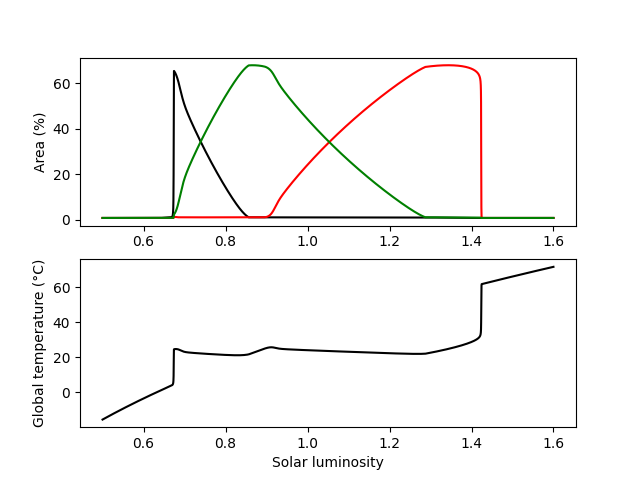
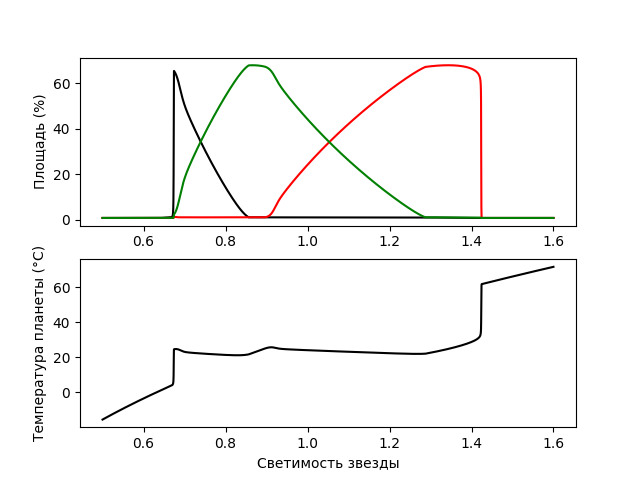
й34нн4н3

Changed region(s): [[0.0312, 0.5312, 0.0938, 0.9062], [0.4062, 0.9375, 0.625, 1.0], [0.0312, 0.2188, 0.0938, 0.375]]

diff --git a/DW_4.py b/DW_4.py
@@ -6,8 +6,8 @@ temp_max = 313.15
 temp_opt = 295.65
 
 albedo_barren = 0.5
-albedo_white = 0.8
-albedo_black = 0.2
+albedo_white = 0.75
+albedo_black = 0.25
 albedo_3 = 0.4
 albedo_4 = 0.6
 
@@ -22,7 +22,7 @@ insul = 0.12
 
 if __name__ == '__main__':
 
-    luminosity = np.arange(0.5, 1.7, 0.0001)
+    luminosity = np.arange(0.5, 1.6, 0.0001)
     area_black_a = np.zeros_like(luminosity)
     area_white_a = np.zeros_like(luminosity)
     area_3_a = np.zeros_like(luminosity)
@@ -85,9 +85,9 @@ if __name__ == '__main__':
     ax[0].plot(luminosity, 100*area_white_a, color='red')
     ax[0].plot(luminosity, 100*area_3_a, color='green')
     ax[0].plot(luminosity, 100*area_4_a, color='blue')
-    ax[0].set_ylabel('Area (%)')
+    ax[0].set_ylabel('Площадь (%)')
 
     ax[1].plot(luminosity, temp_planet_a-273.15, color='black')
-    ax[1].set_xlabel('Solar luminosity')
-    ax[1].set_ylabel('Global temperature (°C)')
-    plt.savefig('DW_4.png')
+    ax[1].set_xlabel('Светимость звезды')
+    ax[1].set_ylabel('Температура планеты (°C)')
+    plt.savefig('DW_44.png')

diff --git a/DW.py b/DW.py
@@ -68,9 +68,9 @@ if __name__ == '__main__':
     fig, ax = plt.subplots(2, 1)
     ax[0].plot(luminosity, 100*area_black_a, color='black')
     ax[0].plot(luminosity, 100*area_white_a, color='red')
-    ax[0].set_ylabel('Area (%)')
+    ax[0].set_ylabel('Площадь (%)')
 
     ax[1].plot(luminosity, temp_planet_a-273.15, color='black')
-    ax[1].set_xlabel('Solar luminosity')
-    ax[1].set_ylabel('Global temperature (°C)')
-    plt.savefig('DW.png')
+    ax[1].set_xlabel('Светимость звезды')
+    ax[1].set_ylabel('Температура планеты (°C)')
+    plt.savefig('DW_ross128b.png')

diff --git a/DW_3.py b/DW_3.py
@@ -66,9 +66,9 @@ if __name__ == '__main__':
     ax[0].plot(luminosity, 100*area_black_a, color='black')
     ax[0].plot(luminosity, 100*area_white_a, color='red')
     ax[0].plot(luminosity, 100*area_3_a, color='green')
-    ax[0].set_ylabel('Area (%)')
+    ax[0].set_ylabel('Площадь (%)')
 
     ax[1].plot(luminosity, temp_planet_a-273.15, color='black')
-    ax[1].set_xlabel('Solar luminosity')
-    ax[1].set_ylabel('Global temperature (°C)')
+    ax[1].set_xlabel('Светимость звезды')
+    ax[1].set_ylabel('Температура планеты (°C)')
     plt.savefig('DW_3.png')

diff --git a/DaisyWorld.py b/DaisyWorld.py
@@ -53,9 +53,10 @@ if __name__ == '__main__':
     fig, ax = plt.subplots(2, 1)
     ax[0].plot(luminosity, 100*area_black_a, color='black')
     ax[0].plot(luminosity, 100*area_white_a, color='red')
-    ax[0].set_ylabel('Area (%)')
+    ax[0].set_ylabel('Площадь (%)')
 
     ax[1].plot(luminosity, temp_planet_a-273.15, color='black')
-    ax[1].set_xlabel('Solar luminosity')
-    ax[1].set_ylabel('Global temperature (°C)')
+    ax[1].set_xlabel('Светимость звезды')
+    ax[1].set_ylabel('Температура планеты (°C)')
+    
     plt.savefig('DaisyWorld.png')
